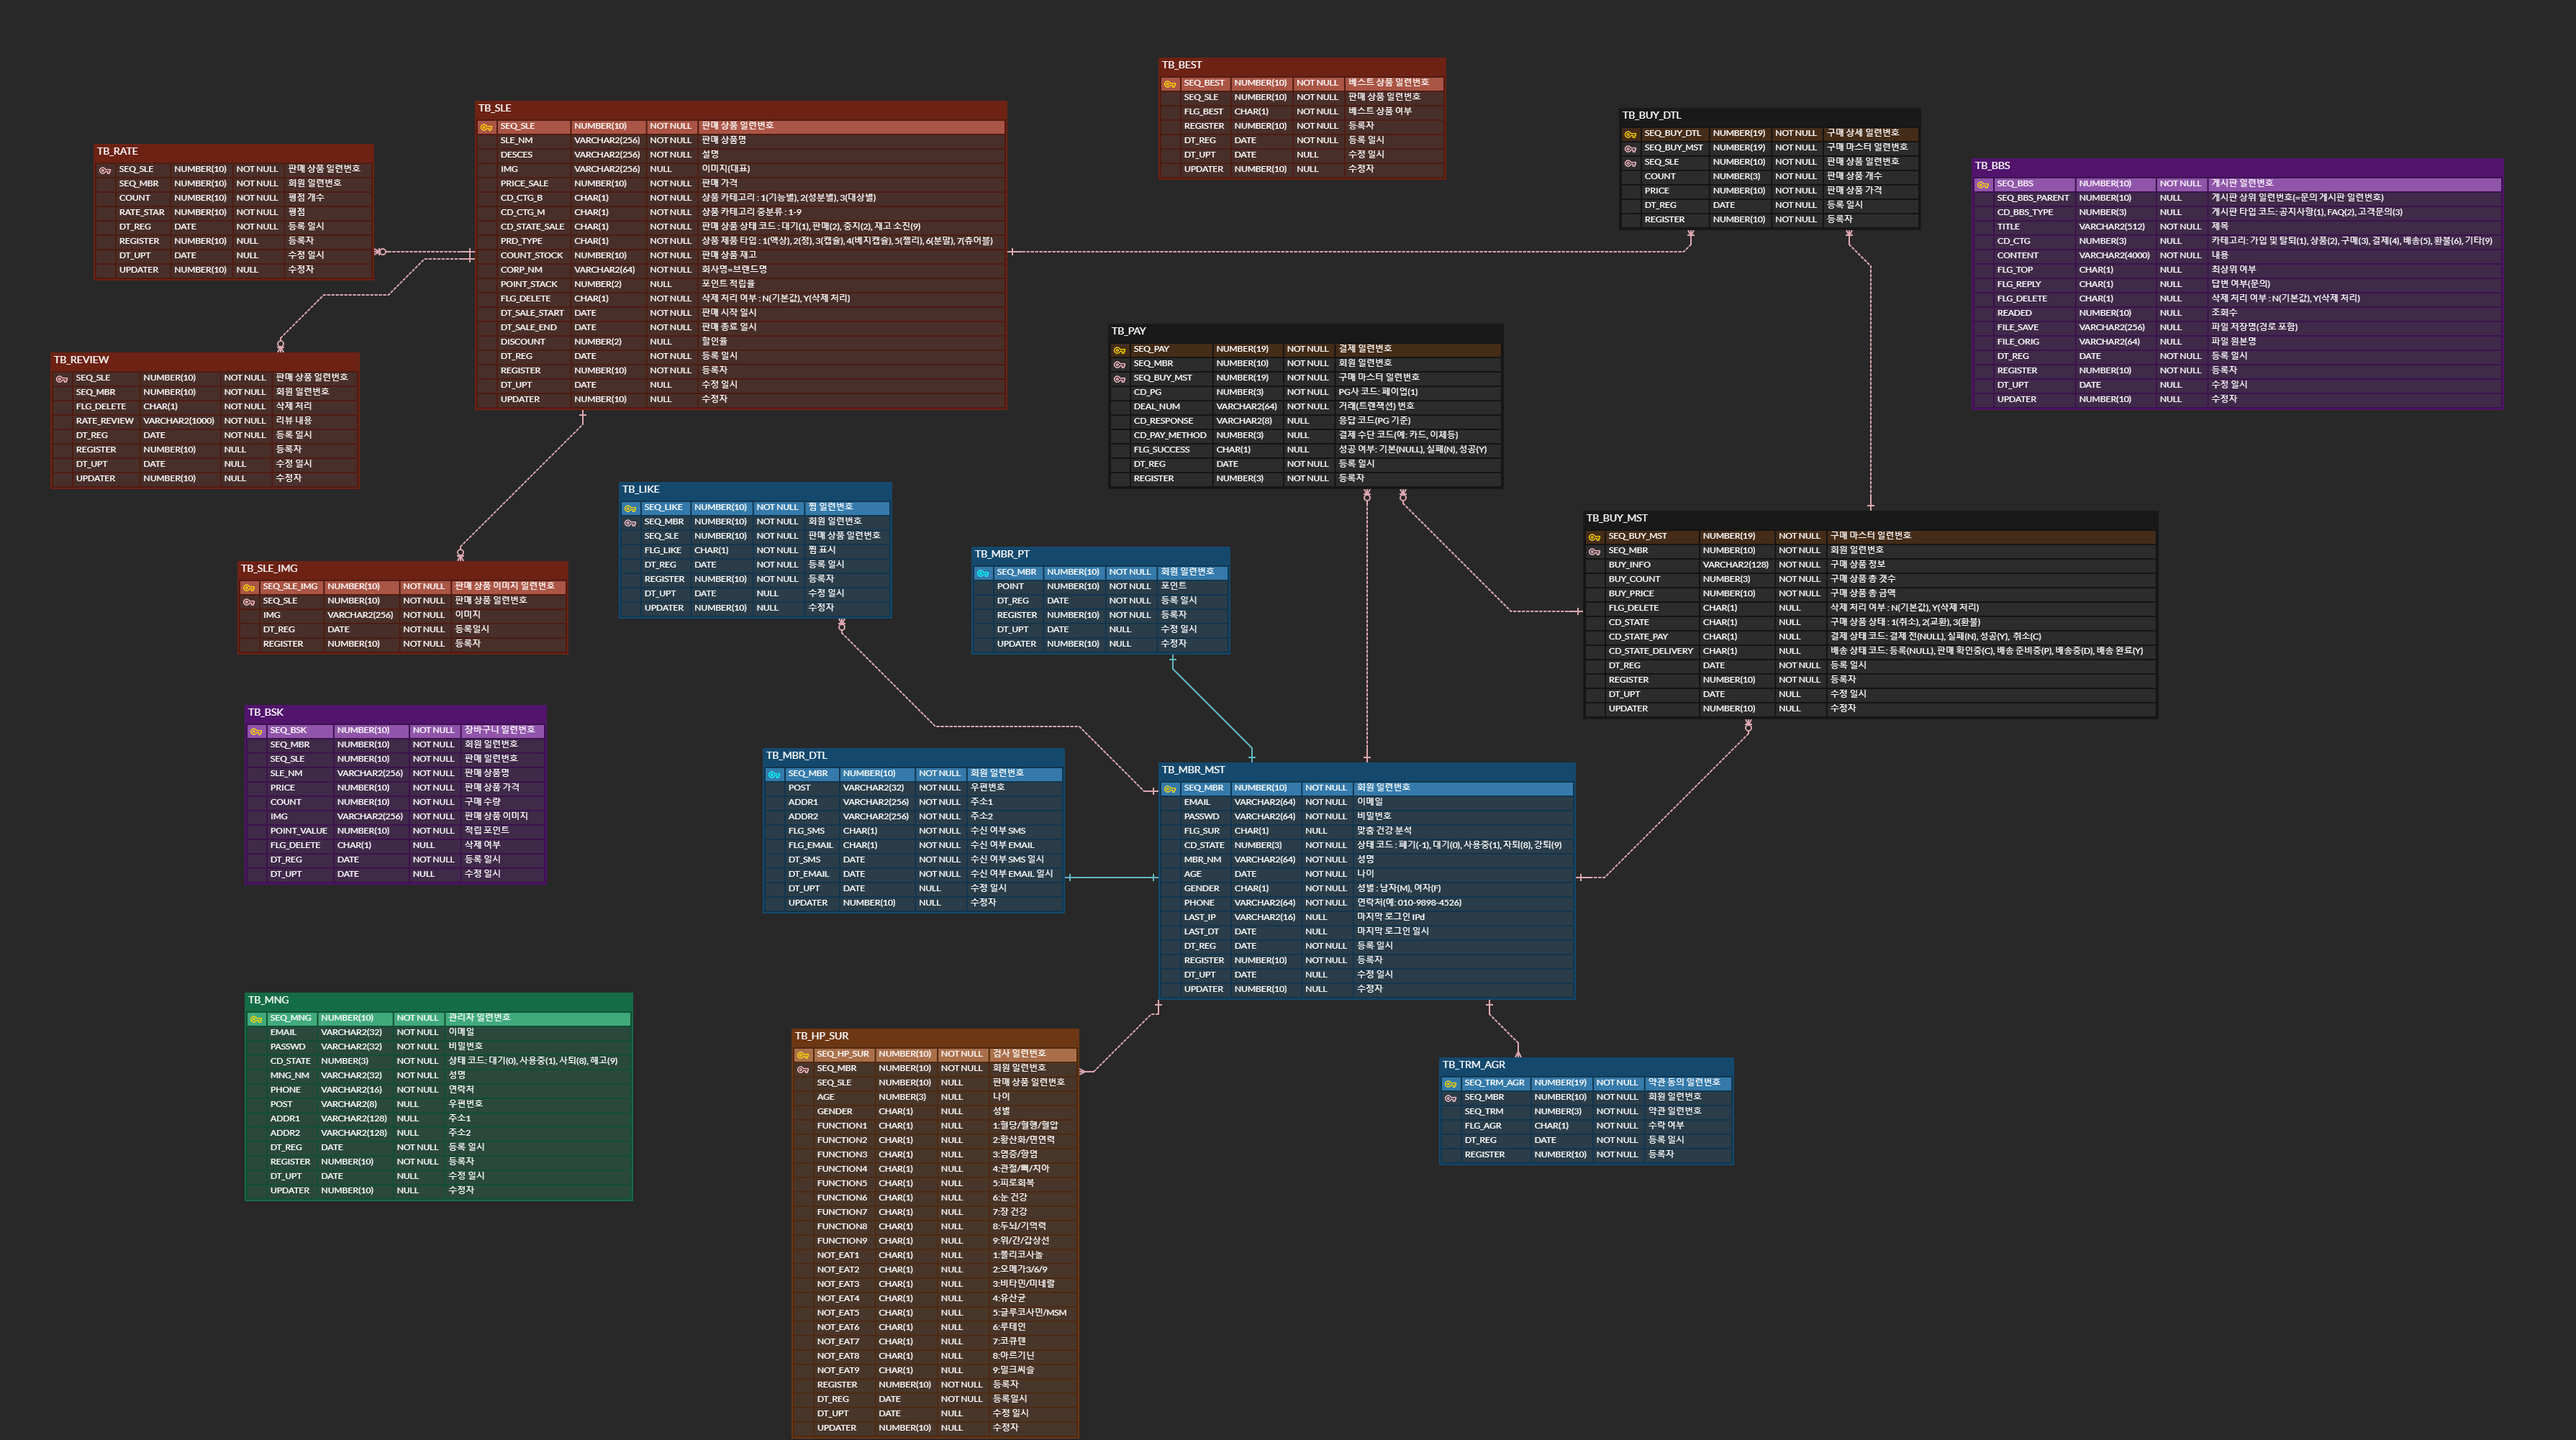
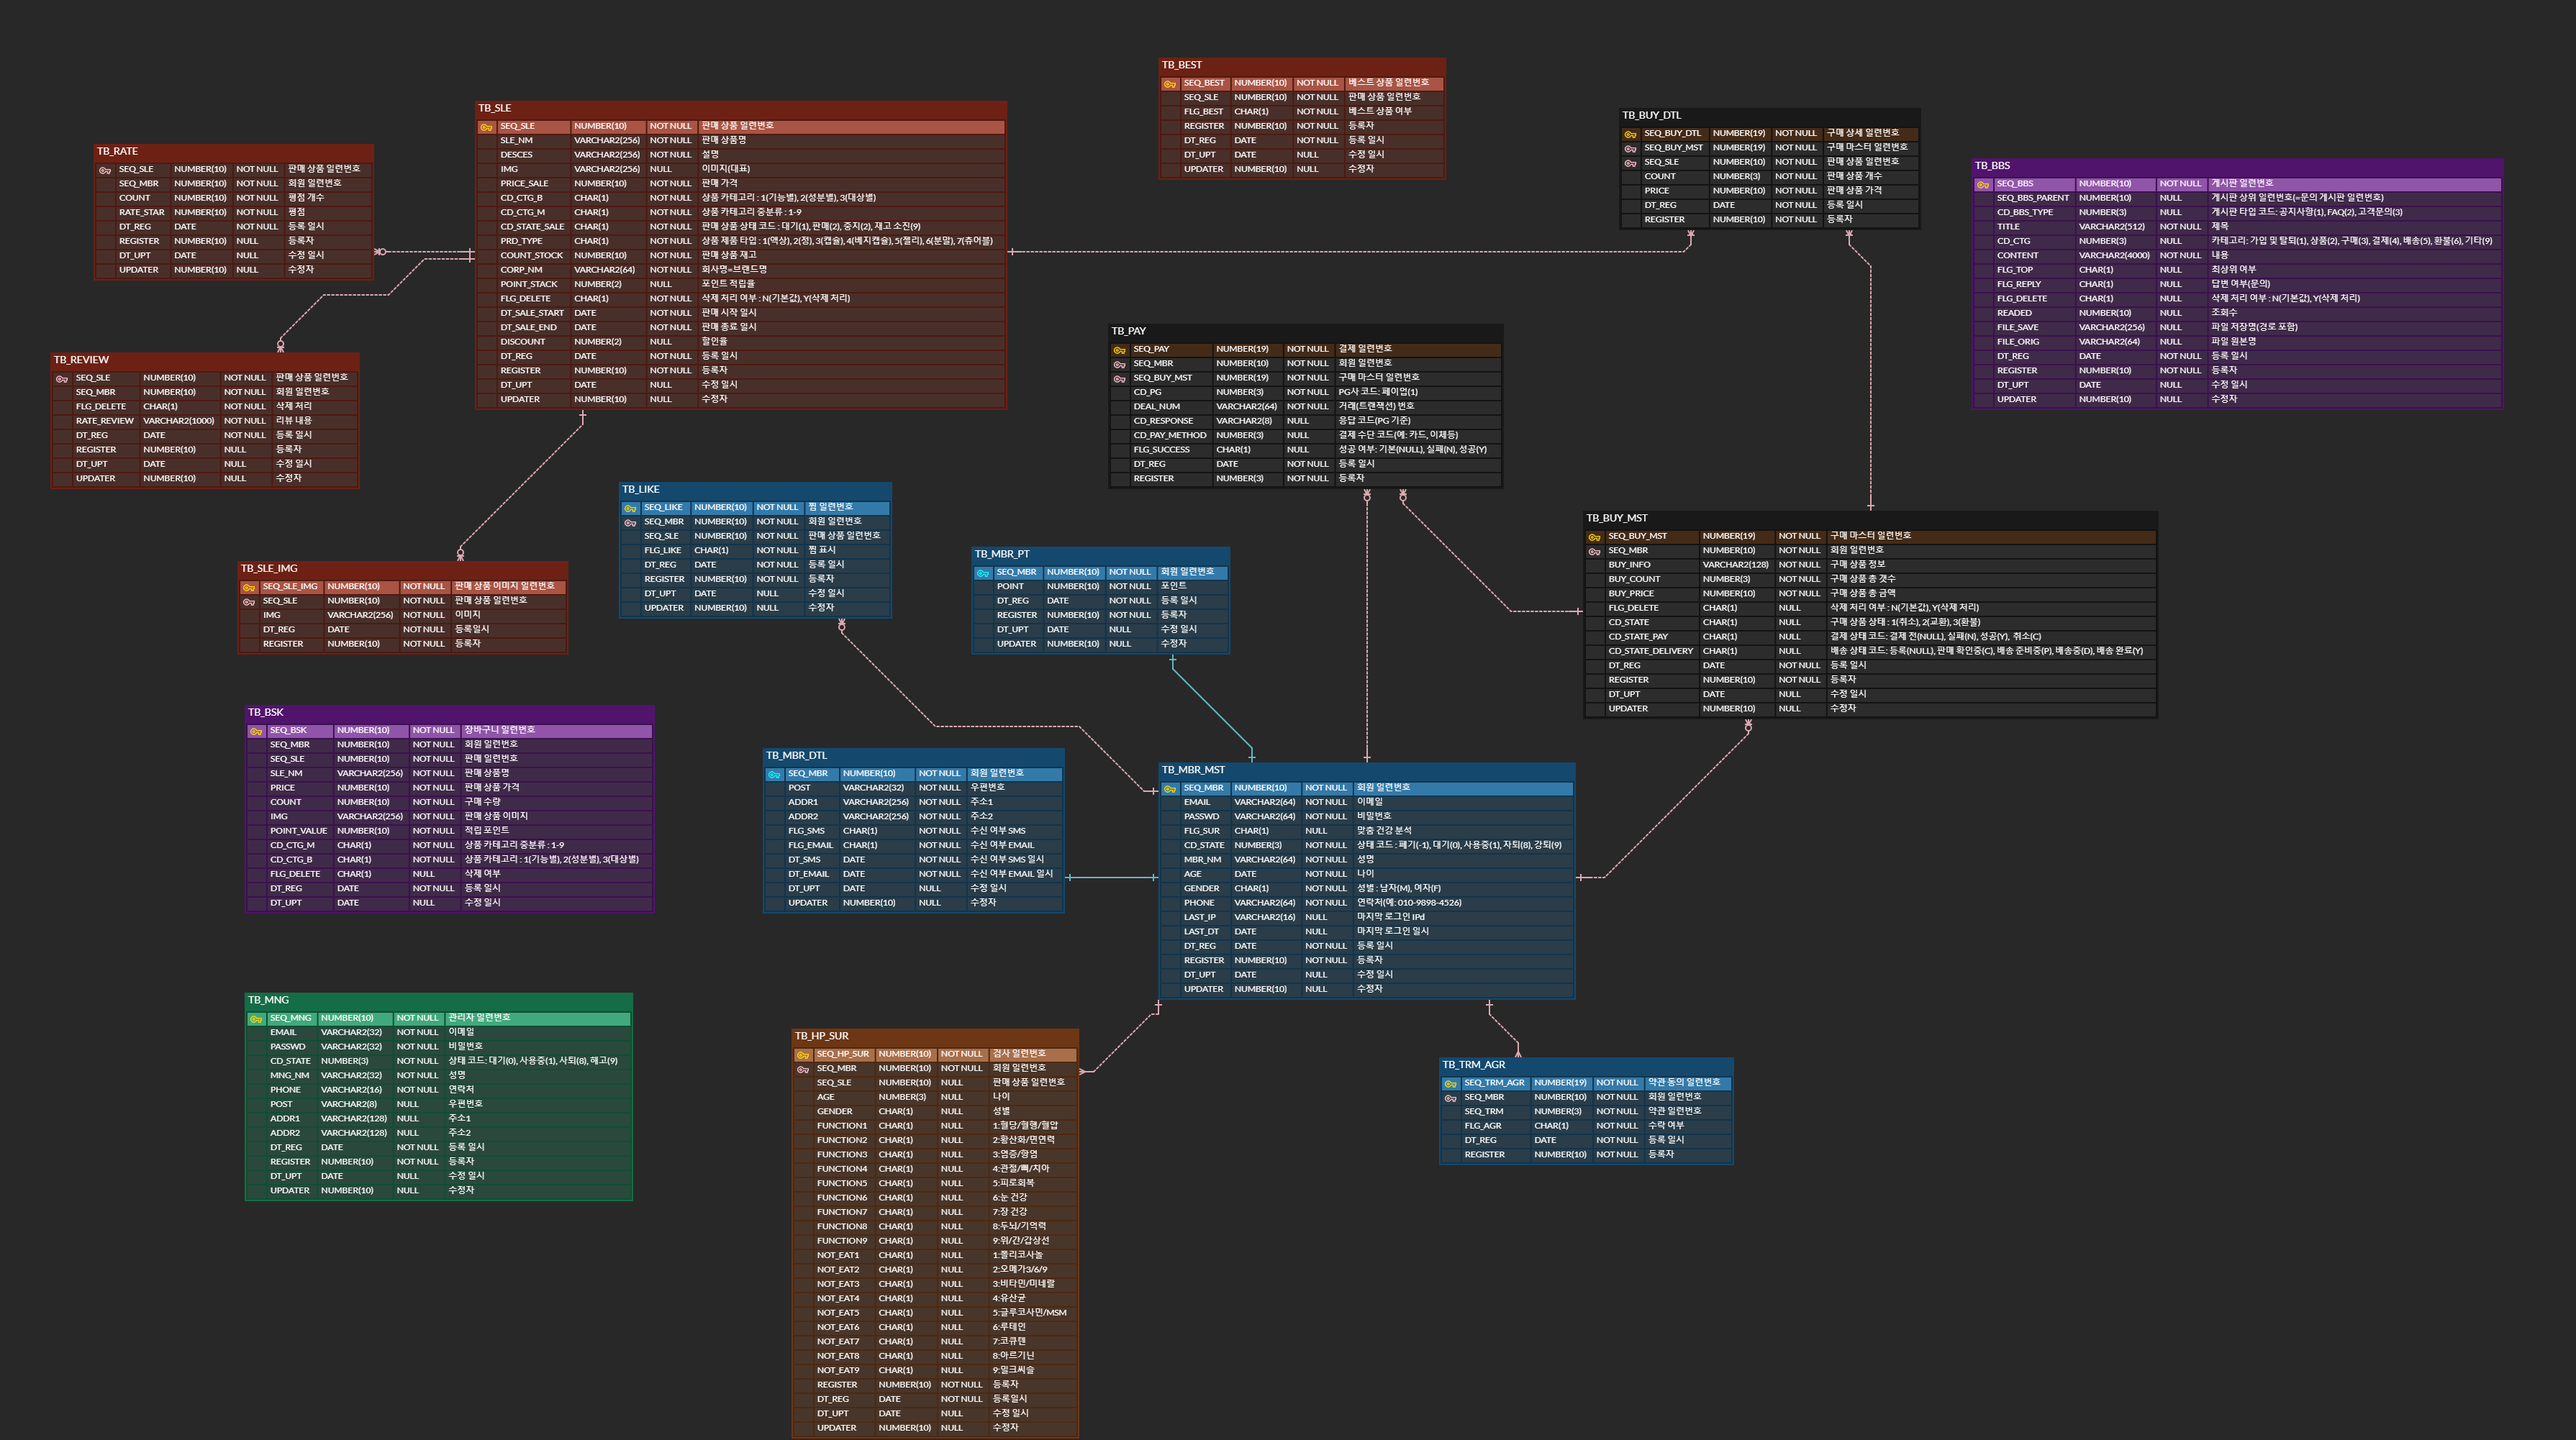
[UPDATE] 장바구니 페이지 구매 수량에 따른 동적 자바 스크립트 추가

Changed region(s): [[0.093, 0.4645, 0.2791, 0.6503]]

diff --git a/WebContent/css/style.css b/WebContent/css/style.css
@@ -61,7 +61,7 @@ table.headTop_01 th {
 	color: black;
 	background-color: #ffffff;
 	border: 1px solid #cccccc;
-	border-radius: 10px;
+	border-radius: 5px;
 	text-decoration: none;
 }
 
@@ -135,7 +135,7 @@ table.headTop_01 th {
 .sale-select {
 	width: 90px;
 	height: 25px;
-	border-radius: 5px;
+	border-radius: 2px;
 	font-size: 13px;
 	padding: 0;
 	margin: 0 0 0 38.5%;
@@ -281,7 +281,6 @@ table.headTop_pd th, table.headTop_pd td {
 	transition: max-height 1s ease-out;
 }
 
-
 .hidden-review-p {
 	color: #444444;
 	font-weight: 500;
@@ -329,11 +328,61 @@ table.headTop_pd th, table.headTop_pd td {
 	display: inline-block;
 	font-size: 14px;
 	font-weight: 600;
-	padding: 15px 30px 15px;
+	padding: 10px 15px 10px;
 	color: #ffffff;
-	border-radius: 10px;
+	border-radius: 4px;
 	text-align: center;
 	margin-left: 15px;
+	font-family: "Montserrat", sans-serif;
+}
+
+.cart-th {
+	font-size: 13px !important;
+	color: #212b36 !important;
+	padding-bottom: 10px !important;
+	padding-top: 10px !important;
+	font-family: "Montserrat", sans-serif !important;
+	text-align: center !important;
+}
+
+.cart-td {
+	font-size: 13px !important;
+	color: #212b36 !important;
+	height: auto !important;
+	padding: 20px 15px !important;
+	border-bottom: none !important;
+	border-top: 1px solid #dbdbdb !important;
+	white-space: nowrap !important;
+	font-family: "Montserrat", sans-serif !important;
+	text-align: center !important;
+	vertical-align: middle !important;
+}
+
+.cart-img {
+	max-width: 100%;
+	max-height: 120px;
+	object-fit: contain;
+	border: 1px solid #dbdbdb;
+	border-radius: 2px
+}
+
+.cart-div {
+	display: flex;
+	justify-content: center;
+	align-items: center;
+	height: 100%;
+}
+
+.cart-title {
+	text-align: left;
+	padding-bottom: 10px;
+	border: none;
+	font-size: 12px;
+	font-family: "Montserrat", sans-serif !important;
+}
+
+.cart-table {
+	border: none;
 }
 
 /*----------------------------------------*/
@@ -1543,7 +1592,8 @@ ol {
 	width: 100%;
 	position: relative;
 	overflow: hidden;
-	border: 1px solid #e0e0e0
+	border: 1px solid #e0e0e0;
+	border-radius: 2px;
 }
 
 .product__item__pic .label {
@@ -2208,17 +2258,18 @@ ol {
 
 .pro-qty {
 	height: 51px;
+	color: #212b36 ;
 	width: 150px;
 	border: 1px solid #ebebeb;
-	border-radius: 10px;
+	border-radius: 5px;
 	padding: 0 20px;
 	overflow: hidden;
 	display: inline-block;
 }
 
 .pro-qty .qtybtn {
-	font-size: 14px;
-	color: #666666;
+	font-size: 16px;
+	color: #212b36;
 	cursor: pointer;
 	float: left;
 	width: 12px;
@@ -2227,7 +2278,7 @@ ol {
 
 .pro-qty input {
 	font-size: 14px;
-	color: #666666;
+	color: #212b36 ;
 	font-weight: 500;
 	border: none;
 	float: left;
@@ -2252,7 +2303,7 @@ ol {
 	font-weight: 600;
 	text-transform: uppercase;
 	padding: 15px 30px 15px;
-	border-radius: 10px;
+	border-radius: 5px;
 	float: left;
 	margin-right: 10px;
 	margin-bottom: 10px;
@@ -2564,7 +2615,7 @@ ol {
 }
 
 .shop__cart__table tbody tr {
-	border-bottom: 1px solid #f2f2f2;
+	border-bottom: 1px solid #dbdbdb;
 }
 
 .shop__cart__table tbody tr td {
@@ -2727,7 +2778,8 @@ ol {
 .cart__total__procced {
 	padding: 40px;
 	font-size: 18px;
-	border: 2px solid #d6d6d6;
+	border: 1px solid #dbdbdb;
+	border-radius: 2px;
 }
 
 .cart__total__procced h6 {

diff --git a/src/kr/co/bravomylife/front/basket/controller/BasketWeb.java b/src/kr/co/bravomylife/front/basket/controller/BasketWeb.java
@@ -65,8 +65,8 @@ public class BasketWeb extends Common {
 	 * <p>IMPORTANT:</p>
 	 * <p>EXAMPLE:</p>
 	 */
-	@RequestMapping(value = "/front/basket/setBasketIframe.web")
-	public ModelAndView setBasketIframe(HttpServletRequest request, HttpServletResponse response
+	@RequestMapping(value = "/front/basket/setBasket.web")
+	public ModelAndView setBasket(HttpServletRequest request, HttpServletResponse response
 			, String item) {
 		
 		ModelAndView mav = new ModelAndView("redirect:/error.web");
@@ -86,6 +86,8 @@ public class BasketWeb extends Common {
 			basketDto.setCount(Integer.parseInt(arrBasket[3]));
 			basketDto.setImg(arrBasket[4]);
 			basketDto.setPoint_value(Integer.parseInt(arrBasket[5]));
+			basketDto.setCd_ctg_m(arrBasket[6]);
+			basketDto.setCd_ctg_b(arrBasket[7]);
 			
 			if (basketSrvc.insert(basketDto)) {
 				request.setAttribute("script", "alert('장바구니에 저장되었습니다');");

diff --git a/src/kr/co/bravomylife/front/basket/dto/BasketDto.java b/src/kr/co/bravomylife/front/basket/dto/BasketDto.java
@@ -38,11 +38,32 @@ public class BasketDto {
 	private int count			= 0;
 	private int point_value		= 0;
 	private int total_price		= 0;
+	private int total_point		= 0;
 	private String img			= "";
 	private String dt_reg		= "";
 	private String dt_upt		= "";
+	private String cd_ctg_m		= "";
+	private String cd_ctg_b		= "";
 	
 	
+	public int getTotal_point() {
+		return total_point;
+	}
+	public void setTotal_point(int total_point) {
+		this.total_point = total_point;
+	}
+	public String getCd_ctg_m() {
+		return cd_ctg_m;
+	}
+	public void setCd_ctg_m(String cd_ctg_m) {
+		this.cd_ctg_m = cd_ctg_m;
+	}
+	public String getCd_ctg_b() {
+		return cd_ctg_b;
+	}
+	public void setCd_ctg_b(String cd_ctg_b) {
+		this.cd_ctg_b = cd_ctg_b;
+	}
 	public int getTotal_price() {
 		return total_price;
 	}
